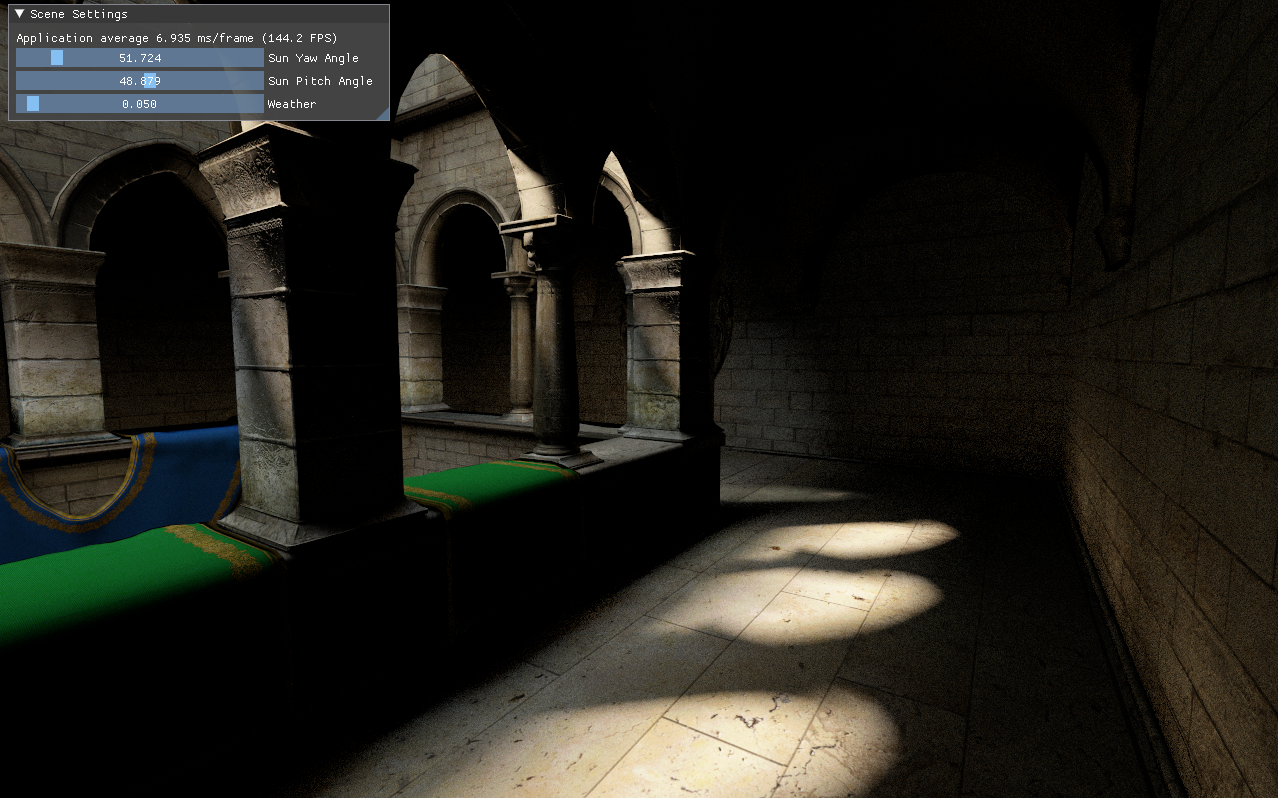
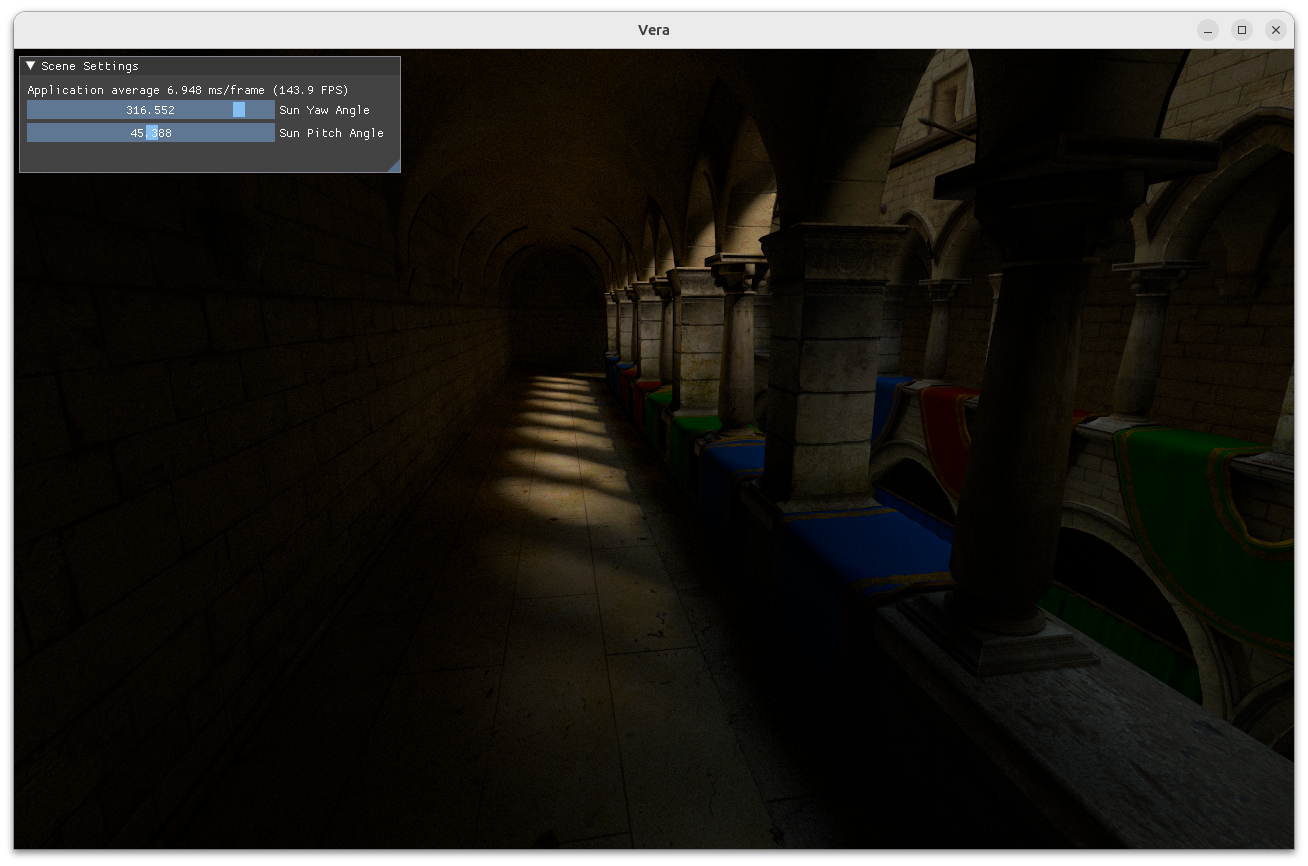
[0.3.5] improved visuals and fixed some ray directions miscalculations

diff --git a/Source/RenderEngine/Pipeline/RayTracingPipelineBuilder.cpp b/Source/RenderEngine/Pipeline/RayTracingPipelineBuilder.cpp
@@ -71,12 +71,6 @@ RayTracingPipelineBuilder& RayTracingPipelineBuilder::addMissStage(std::shared_p
     return *this;
 }
 
-RayTracingPipelineBuilder& RayTracingPipelineBuilder::addDefaultOcclusionCheckShader(std::shared_ptr<ShaderModule> occlusion_shader)
-{
-    default_occlusion_shader_stage_index = addAnyHitStage(std::move(occlusion_shader));
-    return *this;
-}
-
 RayTracingPipelineBuilder& RayTracingPipelineBuilder::addMaterialShader(const std::string& material_name, std::shared_ptr<ShaderModule> hit)
 {
     if (material_shaders.contains(material_name))
@@ -114,30 +108,6 @@ RayTracingPipelineBuilder& RayTracingPipelineBuilder::addMaterialShader(
     return *this;
 }
 
-RayTracingPipelineBuilder& RayTracingPipelineBuilder::addMaterialShader(
-    const std::string& material_name,
-    std::shared_ptr<ShaderModule> hit,
-    std::shared_ptr<ShaderModule> any_hit,
-    std::shared_ptr<ShaderModule> occlusion)
-{
-    if (material_shaders.contains(material_name))
-    {
-        return *this;
-    }
-
-    uint32_t closest_hit_stage_index = addClosestHitStage(std::move(hit));
-    uint32_t any_hit_stage_index = addAnyHitStage(std::move(any_hit));
-    uint32_t occlusion_stage_index = addAnyHitStage(std::move(occlusion));
-    material_shaders[material_name] = MaterialShader
-    {
-        .closest_hit_shader_stage_index = closest_hit_stage_index,
-        .any_hit_shader_stage_index = any_hit_stage_index,
-        .occlusion_shader_stage_index = occlusion_stage_index
-    };
-
-    return *this;
-}
-
 uint32_t RayTracingPipelineBuilder::addClosestHitStage(std::shared_ptr<ShaderModule> hit)
 {
     uint32_t hit_shader_index = addShaderStage(hit, VK_SHADER_STAGE_CLOSEST_HIT_BIT_KHR);
@@ -162,16 +132,6 @@ RayTracingPipelineBuilder& RayTracingPipelineBuilder::registerObjectMaterial(con
     else
     {
         addHitGroup(material_shader.closest_hit_shader_stage_index);
-    }
-
-    assert(default_occlusion_shader_stage_index.has_value() && "There must be at least default occlusion shader stage");
-    if (material_shader.occlusion_shader_stage_index.has_value())
-    {
-        addOcclusionCheckGroup(material_shader.occlusion_shader_stage_index.value());
-    }
-    else
-    {
-        addOcclusionCheckGroup(default_occlusion_shader_stage_index.value());
     }
 
     return *this;

diff --git a/Source/RenderEngine/SceneRenderers/RayTraced/RayTracedRenderer.cpp b/Source/RenderEngine/SceneRenderers/RayTraced/RayTracedRenderer.cpp
@@ -378,8 +378,6 @@ void RayTracedRenderer::buildRayTracingPipeline()
     auto ray_tracing_pipeline_builder = RayTracingPipelineBuilder(device, memory_allocator)
         .addRayGenerationStage(std::make_unique<ShaderModule>(device, "raytrace", VK_SHADER_STAGE_RAYGEN_BIT_KHR))
         .addMissStage(std::make_unique<ShaderModule>(device, "raytrace", VK_SHADER_STAGE_MISS_BIT_KHR))
-        .addMissStage(std::make_unique<ShaderModule>(device, "raytrace_shadow", VK_SHADER_STAGE_MISS_BIT_KHR))
-        .addDefaultOcclusionCheckShader(std::make_unique<ShaderModule>(device, "raytrace_occlusion", VK_SHADER_STAGE_ANY_HIT_BIT_KHR))
         .addDescriptorSetLayout(acceleration_structure_descriptor_set_layout->getDescriptorSetLayout())
         .addDescriptorSetLayout(ray_traced_image_descriptor_set_layout->getDescriptorSetLayout())
         .addDescriptorSetLayout(objects_descriptions_descriptor_set_layout->getDescriptorSetLayout())
@@ -388,7 +386,6 @@ void RayTracedRenderer::buildRayTracingPipeline()
     ray_tracing_pipeline_builder.addMaterialShader(
         "lambertian",
         std::make_unique<ShaderModule>(device, "raytrace_lambertian", VK_SHADER_STAGE_CLOSEST_HIT_BIT_KHR),
-        std::make_unique<ShaderModule>(device, "raytrace_alpha_check", VK_SHADER_STAGE_ANY_HIT_BIT_KHR),
         std::make_unique<ShaderModule>(device, "raytrace_alpha_check", VK_SHADER_STAGE_ANY_HIT_BIT_KHR));
     for (size_t i = 0; i < object_descriptions.size(); ++i)
     {
@@ -437,7 +434,6 @@ void RayTracedRenderer::updateRayPushConstant(FrameInfo& frame_info)
     push_constant_ray.time = static_cast<uint32_t>(std::chrono::system_clock::now().time_since_epoch().count());
     current_number_of_frames = frame_info.need_to_refresh_generated_image ? 0 : current_number_of_frames;
     push_constant_ray.frames = current_number_of_frames;
-    push_constant_ray.weather = frame_info.weather;
     push_constant_ray.sun_position = frame_info.sun_position;
     ray_tracing_pipeline->pushConstants(frame_info.command_buffer, push_constant_ray);
 }

diff --git a/Tests/IntegrationTests/RenderEngine/RenderingAPI/Pipeline/RayTracingPipelineBuilder.cpp b/Tests/IntegrationTests/RenderEngine/RenderingAPI/Pipeline/RayTracingPipelineBuilder.cpp
@@ -28,8 +28,6 @@ TEST(RayTracingPipelineBuilderTests, shouldBuildValidRayTracingPipeline)
     auto ray_tracing_pipeline_builder = RayTracingPipelineBuilder(TestsEnvironment::vulkanHandler(), TestsEnvironment::memoryAllocator())
         .addRayGenerationStage(std::make_unique<ShaderModule>(TestsEnvironment::vulkanHandler(), "raytrace", VK_SHADER_STAGE_RAYGEN_BIT_KHR))
         .addMissStage(std::make_unique<ShaderModule>(TestsEnvironment::vulkanHandler(), "raytrace", VK_SHADER_STAGE_MISS_BIT_KHR))
-        .addMissStage(std::make_unique<ShaderModule>(TestsEnvironment::vulkanHandler(), "raytrace_shadow", VK_SHADER_STAGE_MISS_BIT_KHR))
-        .addDefaultOcclusionCheckShader(std::make_unique<ShaderModule>(TestsEnvironment::vulkanHandler(), "raytrace_occlusion", VK_SHADER_STAGE_ANY_HIT_BIT_KHR))
         .addDescriptorSetLayout(acceleration_structure_descriptor_set_layout->getDescriptorSetLayout())
         .addDescriptorSetLayout(ray_traced_image_descriptor_set_layout->getDescriptorSetLayout())
         .addDescriptorSetLayout(object_descriptions_descriptor_set_layout->getDescriptorSetLayout())
@@ -38,7 +36,6 @@ TEST(RayTracingPipelineBuilderTests, shouldBuildValidRayTracingPipeline)
     ray_tracing_pipeline_builder.addMaterialShader(
         "lambertian",
         std::make_unique<ShaderModule>(TestsEnvironment::vulkanHandler(), "raytrace_lambertian", VK_SHADER_STAGE_CLOSEST_HIT_BIT_KHR),
-        std::make_unique<ShaderModule>(TestsEnvironment::vulkanHandler(), "raytrace_alpha_check", VK_SHADER_STAGE_ANY_HIT_BIT_KHR),
         std::make_unique<ShaderModule>(TestsEnvironment::vulkanHandler(), "raytrace_alpha_check", VK_SHADER_STAGE_ANY_HIT_BIT_KHR));
     ray_tracing_pipeline_builder.registerObjectMaterial("lambertian");
 

diff --git a/Source/RenderEngine/Pipeline/RayTracingPipelineBuilder.h b/Source/RenderEngine/Pipeline/RayTracingPipelineBuilder.h
@@ -12,17 +12,11 @@ public:
 
     RayTracingPipelineBuilder& addRayGenerationStage(std::shared_ptr<ShaderModule> ray_gen);
     RayTracingPipelineBuilder& addMissStage(std::shared_ptr<ShaderModule> miss);
-    RayTracingPipelineBuilder& addDefaultOcclusionCheckShader(std::shared_ptr<ShaderModule> occlusion_shader);
     RayTracingPipelineBuilder& addMaterialShader(const std::string& material_name, std::shared_ptr<ShaderModule> hit);
     RayTracingPipelineBuilder& addMaterialShader(
         const std::string& material_name,
         std::shared_ptr<ShaderModule> hit,
         std::shared_ptr<ShaderModule> any_hit);
-    RayTracingPipelineBuilder& addMaterialShader(
-        const std::string& material_name,
-        std::shared_ptr<ShaderModule> hit,
-        std::shared_ptr<ShaderModule> any_hit,
-        std::shared_ptr<ShaderModule> occlusion);
     RayTracingPipelineBuilder& registerObjectMaterial(const std::string& material_name);
     RayTracingPipelineBuilder& setMaxRecursionDepth(uint32_t max_recursion_depth);
     RayTracingPipelineBuilder& addDescriptorSetLayout(VkDescriptorSetLayout descriptor_set_layout);
@@ -50,7 +44,6 @@ private:
 
     std::vector<std::shared_ptr<ShaderModule>> shader_modules;
 
-    std::optional<uint32_t> default_occlusion_shader_stage_index;
     std::vector<VkPipelineShaderStageCreateInfo> shader_stage_create_info_list;
     std::vector<VkRayTracingShaderGroupCreateInfoKHR> shader_group_create_info_list;
 

diff --git a/Source/Editor/GUI/Components/SunSettingsComponent.cpp b/Source/Editor/GUI/Components/SunSettingsComponent.cpp
@@ -20,7 +20,6 @@ void SunSettingsComponent::drawSliderElements()
 {
     ImGui::SliderFloat("Sun Yaw Angle", &sun_yaw_angle, 0.0f, 360.0f);
     ImGui::SliderFloat("Sun Pitch Angle", &sun_pitch_angle, 0.0f, 90.0f);
-    ImGui::SliderFloat("Weather", &weather, 0.01f, 1.0f);
 }
 
 void SunSettingsComponent::calculateSunPosition(FrameInfo& frame_info) const
@@ -34,15 +33,12 @@ void SunSettingsComponent::calculateSunPosition(FrameInfo& frame_info) const
 
 void SunSettingsComponent::updateFrameInfo(FrameInfo& frame_info) const
 {
-    frame_info.weather = weather;
     frame_info.need_to_refresh_generated_image |= glm::abs(previous_sun_yaw_angle - sun_yaw_angle) > 0.001f
-                                                  || glm::abs(previous_sun_pitch_angle - sun_pitch_angle) > 0.001f
-                                                  || glm::abs(previous_weather - weather) > 0.001f;
+                                                  || glm::abs(previous_sun_pitch_angle - sun_pitch_angle) > 0.001f;
 }
 
 void SunSettingsComponent::updatePreviousValues()
 {
     previous_sun_yaw_angle = sun_yaw_angle;
     previous_sun_pitch_angle = sun_pitch_angle;
-    previous_weather = weather;
 }

diff --git a/Source/RenderEngine/PostProcessing/PostProcessing.cpp b/Source/RenderEngine/PostProcessing/PostProcessing.cpp
@@ -50,8 +50,8 @@ void PostProcessing::createPipeline(VkRenderPass render_pass)
     simple_pipeline = std::make_unique<Pipeline>
     (
         device,
-        "Shaders/HDR.vert.spv",
-        "Shaders/HDR.frag.spv",
+        "Shaders/PostProcess.vert.spv",
+        "Shaders/PostProcess.frag.spv",
         config_info
     );
 }

diff --git a/Source/Objects/Components/PlayerMovementComponent.h b/Source/Objects/Components/PlayerMovementComponent.h
@@ -34,7 +34,7 @@ private:
 
     [[nodiscard]] glm::vec3 translatePlayerWithInput(const FrameInfo& frame_info) const;
 
-    float move_speed{12.f};
+    float move_speed{25.f};
 
     [[nodiscard]] bool checkIfPlayerHasMoved(const glm::vec3& player_frame_rotation, const glm::vec3& player_frame_translation) const;
 

diff --git a/Source/RenderEngine/FrameInfo.h b/Source/RenderEngine/FrameInfo.h
@@ -15,6 +15,5 @@ struct FrameInfo
     VkDescriptorSet ray_traced_texture;
 
     glm::vec3 sun_position{glm::normalize(glm::vec3{1})};
-    float weather{0.05f};
     bool need_to_refresh_generated_image{false};
 };

diff --git a/Source/Editor/GUI/Components/SunSettingsComponent.h b/Source/Editor/GUI/Components/SunSettingsComponent.h
@@ -22,7 +22,4 @@ private:
 
     float previous_sun_pitch_angle{30.f};
     float sun_pitch_angle{30.f};
-
-    float previous_weather{0.05f};
-    float weather{0.05f};
 };

diff --git a/Shaders/Commons/Common.h b/Shaders/Commons/Common.h
@@ -45,7 +45,6 @@ struct PushConstantRay
     uint time;
     uint frames;
     uint number_of_lights;
-    float weather;
     vec3 sun_position;
 };
 
